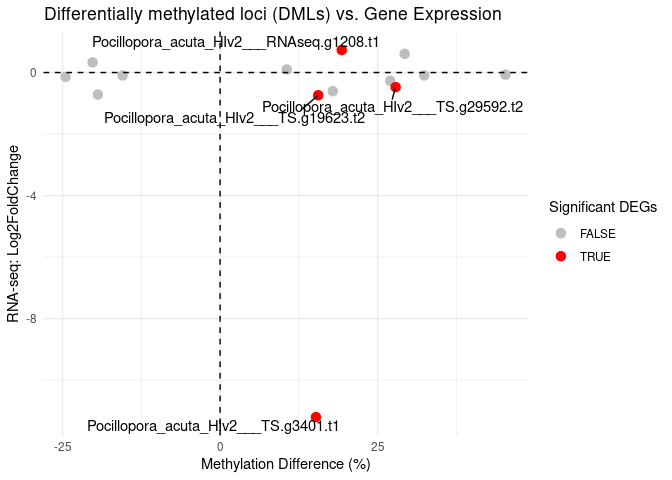
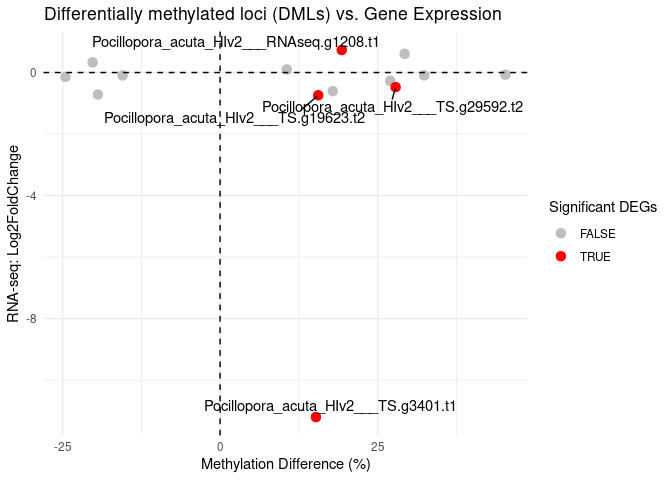
update DML annotation

Changed region(s): [[0.125, 0.8125, 0.5312, 0.9062], [0.5625, 0.8125, 0.6875, 0.875]]

diff --git a/code/09-MethylKit.md b/code/09-MethylKit.md
@@ -508,7 +508,7 @@ getCorrelation(meth_filter_destrand,plot=TRUE)
 ### 0.3.1 batch effects
 
 ``` r
-as=assocComp(mBase=meth_filter_destrand,select(meta,c("PCR_ReAmp_Cycles", "Fragment")))
+as=assocComp(mBase=meth_filter_destrand,dplyr::select(meta,c("PCR_ReAmp_Cycles", "Fragment")))
 as
 ```
 
@@ -809,6 +809,13 @@ head(DML_transcript_annot)
     ## 5     Pocillopora_acuta_HIv2___TS.g27914.t3
     ## 6 Pocillopora_acuta_HIv2___RNAseq.g17735.t1
 
+``` r
+#how many genes do these consist of?
+length(unique(DML_transcript_annot$gene_id))
+```
+
+    ## [1] 21
+
 ## 0.5 Are any DMGs DMLs?
 
 ``` r
@@ -884,6 +891,12 @@ MLs_in_genes <- regionCounts(meth_filter_destrand, regions=transcripts)
 
     ## Warning in .merge_two_Seqinfo_objects(x, y): Each of the 2 combined objects has sequence levels not in the other:
     ##   - in 'x': Pocillopora_acuta_HIv2___Sc0000053, Pocillopora_acuta_HIv2___Sc0000056, Pocillopora_acuta_HIv2___Sc0000058, Pocillopora_acuta_HIv2___Sc0000059, Pocillopora_acuta_HIv2___Sc0000060, Pocillopora_acuta_HIv2___Sc0000062, Pocillopora_acuta_HIv2___Sc0000063, Pocillopora_acuta_HIv2___Sc0000064, Pocillopora_acuta_HIv2___Sc0000066, Pocillopora_acuta_HIv2___Sc0000068, Pocillopora_acuta_HIv2___Sc0000070, Pocillopora_acuta_HIv2___Sc0000073, Pocillopora_acuta_HIv2___Sc0000075, Pocillopora_acuta_HIv2___Sc0000076, Pocillopora_acuta_HIv2___Sc0000077, Pocillopora_acuta_HIv2___Sc0000078, Pocillopora_acuta_HIv2___Sc0000080, Pocillopora_acuta_HIv2___xfSc0000051, Pocillopora_acuta_HIv2___xfSc0000055, Pocillopora_acuta_HIv2___xfSc0000057, Pocillopora_acuta_HIv2___xfSc0000058, Pocillopora_acuta_HIv2___xfSc0000062, Pocillopora_acuta_HIv2___xfSc0000064, Pocillopora_acuta_HIv2___xfSc0000065, Pocillopora_acuta_HIv2___xfSc0000066, Pocillopora_acuta_HIv2___xfSc0000070, Pocillopora_acuta_HIv2___xfSc0000071, Pocillopora_acuta_HIv2___xfSc0000072, Pocillopora_acuta_HIv2___xfSc0000073, Pocillopora_acuta_HIv2___xfSc0000074, Pocillopora_acuta_HIv2___xfSc0000075, Pocillopora_acuta_HIv2___xfSc0000077, Pocillopora_acuta_HIv2___xfSc0000078, Pocillopora_acuta_HIv2___xfSc0000080, Pocillopora_acuta_HIv2___xfSc0000081, Pocillopora_acuta_HIv2___xfSc0000084, Pocillopora_acuta_HIv2___xfSc0000086, Pocillopora_acuta_HIv2___xfSc0000087, Pocillopora_acuta_HIv2___xfSc0000089, Pocillopora_acuta_HIv2___xfSc0000090, Pocillopora_acuta_HIv2___xfSc0000091, Pocillopora_acuta_HIv2___xfSc0000094, Pocillopora_acuta_HIv2___xfSc0000095, Pocillopora_acuta_HIv2___xfSc0000096, Pocillopora_acuta_HIv2___xfSc0000097, Pocillopora_acuta_HIv2___xfSc0000098, Pocillopora_acuta_HIv2___xfSc0000099, Pocillopora_acuta_HIv2___xfSc0000100, Pocillopora_acuta_HIv2___xfSc0000101, Pocillopora_acuta_HIv2___xfSc0000102, Pocillopora_acuta_HIv2___xfSc0000103, Pocillopora_acuta_HIv2___xfSc0000104, Pocillopora_acuta_HIv2___xfSc0000105, Pocillopora_acuta_HIv2___xfSc0000108, Pocillopora_acuta_HIv2___xfSc0000109, Pocillopora_acuta_HIv2___xfSc0000110, Pocillopora_acuta_HIv2___xfSc0000114, Pocillopora_acuta_HIv2___xfSc0000115, Pocillopora_acuta_HIv2___xfSc0000116, Pocillopora_acuta_HIv2___xfSc0000119, Pocillopora_acuta_HIv2___xfSc0000121, Pocillopora_acuta_HIv2___xfSc0000122, Pocillopora_acuta_HIv2___xfSc0000125, Pocillopora_acuta_HIv2___xfSc0000126, Pocillopora_acuta_HIv2___xfSc0000127, Pocillopora_acuta_HIv2___xfSc0000128, Pocillopora_acuta_HIv2___xfSc0000129, Pocillopora_acuta_HIv2___xfSc0000130, Pocillopora_acuta_HIv2___xfSc0000131, Pocillopora_acuta_HIv2___xfSc0000132, Pocillopora_acuta_HIv2___xfSc0000133, Pocillopora_acuta_HIv2___xfSc0000135, Pocillopora_acuta_HIv2___xfSc0000136, Pocillopora_acuta_HIv2___xfSc0000137, Pocillopora_acuta_HIv2___xfSc0000138, Pocillopora_acuta_HIv2___xfSc0000139, Pocillopora_acuta_HIv2___xfSc0000140, Pocillopora_acuta_HIv2___xfSc0000141, Pocillopora_acuta_HIv2___xfSc0000142, Pocillopora_acuta_HIv2___xfSc0000143, Pocillopora_acuta_HIv2___xfSc0000144, Pocillopora_acuta_HIv2___xfSc0000145, Pocillopora_acuta_HIv2___xfSc0000147, Pocillopora_acuta_HIv2___xfSc0000148, Pocillopora_acuta_HIv2___xfSc0000150, Pocillopora_acuta_HIv2___xfSc0000151, Pocillopora_acuta_HIv2___xfSc0000152, Pocillopora_acuta_HIv2___xfSc0000154, Pocillopora_acuta_HIv2___xfSc0000155, Pocillopora_acuta_HIv2___xfSc0000157, Pocillopora_acuta_HIv2___xfSc0000158, Pocillopora_acuta_HIv2___xfSc0000159, Pocillopora_acuta_HIv2___xfSc0000160, Pocillopora_acuta_HIv2___xfSc0000161, Pocillopora_acuta_HIv2___xfSc0000162, Pocillopora_acuta_HIv2___xfSc0000163, Pocillopora_acuta_HIv2___xfSc0000164, Pocillopora_acuta_HIv2___xfSc0000165, Pocillopora_acuta_HIv2___xfSc0000166, Pocillopora_acuta_HIv2___xfSc0000167, Pocillopora_acuta_HIv2___xfSc0000168, Pocillopora_acuta_HIv2___xfSc0000171, Pocillopora_acuta_HIv2___xfSc0000173, Pocillopora_acuta_HIv2___xfSc0000174, Pocillopora_acuta_HIv2___xfSc0000177, Pocillopora_acuta_HIv2___xfSc0000178, Pocillopora_acuta_HIv2___xfSc0000179, Pocillopora_acuta_HIv2___xfSc0000180, Pocillopora_acuta_HIv2___xfSc0000181, Pocillopora_acuta_HIv2___xfSc0000182, Pocillopora_acuta_HIv2___xfSc0000183, Pocillopora_acuta_HIv2___xfSc0000184, Pocillopora_acuta_HIv2___xfSc0000185, Pocillopora_acuta_HIv2___xfSc0000186, Pocillopora_acuta_HIv2___xfSc0000187, Pocillopora_acuta_HIv2___xfSc0000188, Pocillopora_acuta_HIv2___xfSc0000189, Pocillopora_acuta_HIv2___xfSc0000190, Pocillopora_acuta_HIv2___xfSc0000191, Pocillopora_acuta_HIv2___xfSc0000192, Pocillopora_acuta_HIv2___xfSc0000193, Pocillopora_acuta_HIv2___xfSc0000196, Pocillopora_acuta_HIv2___xfSc0000197, Pocillopora_acuta_HIv2___xfSc0000200, Pocillopora_acuta_HIv2___xfSc0000202, Pocillopora_acuta_HIv2___xfSc0000203, Pocillopora_acuta_HIv2___xfSc0000204, Pocillopora_acuta_HIv2___xfSc0000205, Pocillopora_acuta_HIv2___xfSc0000206, Pocillopora_acuta_HIv2___xfSc0000207, Pocillopora_acuta_HIv2___xfSc0000208, Pocillopora_acuta_HIv2___xfSc0000209, Pocillopora_acuta_HIv2___xfSc0000210, Pocillopora_acuta_HIv2___xfSc0000212, Pocillopora_acuta_HIv2___xfSc0000213, Pocillopora_acuta_HIv2___xfSc0000214, Pocillopora_acuta_HIv2___xfSc0000215, Pocillopora_acuta_HIv2___xfSc0000216, Pocillopora_acuta_HIv2___xfSc0000217, Pocillopora_acuta_HIv2___xfSc0000218, Pocillopora_acuta_HIv2___xfSc0000220, Pocillopora_acuta_HIv2___xfSc0000221, Pocillopora_acuta_HIv2___xfSc0000222, Pocillopora_acuta_HIv2___xfSc0000223, Pocillopora_acuta_HIv2___xfSc0000224, Pocillopora_acuta_HIv2___xfSc0000226, Pocillopora_acuta_HIv2___xfSc0000227, Pocillopora_acuta_HIv2___xfSc0000228, Pocillopora_acuta_HIv2___xfSc0000230, Pocillopora_acuta_HIv2___xfSc0000231, Pocillopora_acuta_HIv2___xfSc0000232, Pocillopora_acuta_HIv2___xfSc0000233, Pocillopora_acuta_HIv2___xfSc0000234, Pocillopora_acuta_HIv2___xfSc0000235, Pocillopora_acuta_HIv2___xfSc0000236, Pocillopora_acuta_HIv2___xfSc0000238, Pocillopora_acuta_HIv2___xfSc0000239, Pocillopora_acuta_HIv2___xfSc0000240, Pocillopora_acuta_HIv2___xfSc0000241, Pocillopora_acuta_HIv2___xfSc0000242, Pocillopora_acuta_HIv2___xfSc0000243, Pocillopora_acuta_HIv2___xfSc0000244, Pocillopora_acuta_HIv2___xfSc0000245, Pocillopora_acuta_HIv2___xfSc0000247, Pocillopora_acuta_HIv2___xfSc0000248, Pocillopora_acuta_HIv2___xfSc0000250, Pocillopora_acuta_HIv2___xfSc0000251, Pocillopora_acuta_HIv2___xfSc0000252, Pocillopora_acuta_HIv2___xfSc0000254, Pocillopora_acuta_HIv2___xfSc0000255, Pocillopora_acuta_HIv2___xfSc0000256, Pocillopora_acuta_HIv2___xfSc0000257, Pocillopora_acuta_HIv2___xfSc0000258, Pocillopora_acuta_HIv2___xfSc0000259, Pocillopora_acuta_HIv2___xfSc0000260, Pocillopora_acuta_HIv2___xfSc0000261, Pocillopora_acuta_HIv2___xfSc0000262, Pocillopora_acuta_HIv2___xfSc0000264, Pocillopora_acuta_HIv2___xfSc0000265, Pocillopora_acuta_HIv2___xfSc0000266, Pocillopora_acuta_HIv2___xfSc0000268, Pocillopora_acuta_HIv2___xfSc0000269, Pocillopora_acuta_HIv2___xfSc0000270, Pocillopora_acuta_HIv2___xfSc0000271, Pocillopora_acuta_HIv2___xfSc0000272, Pocillopora_acuta_HIv2___xfSc0000273, Pocillopora_acuta_HIv2___xfSc0000274, Pocillopora_acuta_HIv2___xfSc0000275, Pocillopora_acuta_HIv2___xfSc0000276, Pocillopora_acuta_HIv2___xfSc0000277, Pocillopora_acuta_HIv2___xfSc0000278, Pocillopora_acuta_HIv2___xfSc0000279, Pocillopora_acuta_HIv2___xfSc0000280, Pocillopora_acuta_HIv2___xfSc0000281, Pocillopora_acuta_HIv2___xfSc0000282, Pocillopora_acuta_HIv2___xfSc0000283, Pocillopora_acuta_HIv2___xfSc0000284, Pocillopora_acuta_HIv2___xfSc0000286, Pocillopora_acuta_HIv2___xfSc0000288, Pocillopora_acuta_HIv2___xfSc0000289, Pocillopora_acuta_HIv2___xfSc0000291, Pocillopora_acuta_HIv2___xfSc0000293, Pocillopora_acuta_HIv2___xfSc0000295, Pocillopora_acuta_HIv2___xfSc0000296, Pocillopora_acuta_HIv2___xfSc0000301, Pocillopora_acuta_HIv2___xfSc0000302, Pocillopora_acuta_HIv2___xfSc0000303, Pocillopora_acuta_HIv2___xfSc0000305, Pocillopora_acuta_HIv2___xfSc0000306, Pocillopora_acuta_HIv2___xfSc0000307, Pocillopora_acuta_HIv2___xfSc0000310, Pocillopora_acuta_HIv2___xfSc0000311, Pocillopora_acuta_HIv2___xfSc0000313, Pocillopora_acuta_HIv2___xfSc0000315, Pocillopora
+
+``` r
+nrow(MLs_in_genes)
+```
+
+    ## [1] 1107
 
 ``` r
 #MLs_in_genes <- getData(MLs_in_genes)
@@ -996,7 +1009,7 @@ meta_RNA$Tissue <- factor(meta_RNA$Tissue, levels = c("OralEpi","Aboral")) #we w
 ``` r
 filtered_counts_RNA <- read.csv("../output_RNA/differential_expression/filtered_counts.csv") 
 rownames(filtered_counts_RNA) <- filtered_counts_RNA$X
-filtered_counts_RNA <- filtered_counts_RNA %>% select(-X)
+filtered_counts_RNA <- filtered_counts_RNA %>% dplyr::select(-X)
 filtered_counts_RNA$sum <- rowSums(filtered_counts_RNA)
 filtered_counts_RNA$gene_id <- rownames(filtered_counts_RNA)
 

diff --git a/code/WGBS-bioinf.md b/code/WGBS-bioinf.md
@@ -1753,27 +1753,28 @@ Two main files of DML/DMG interpretation:
 
 Takeaways:
 
-- There are 59 DMLs, 42 of which occur in gene bodies (DMGs)
+- After filtering, there are 12,252 CpGs in the dataset with 5X coverage, and those of which that occur in gene bodies cover 1107 unique genes out of 33,730 in the genome
+- There are 59 DMLs, 42 of which occur in gene bodies (covering 21 unique genes, which we can consider DMGs)
 - 4 DMGs are also DEGs
     - Pocillopora_acuta_HIv2___TS.g29592.t2
     - Pocillopora_acuta_HIv2___TS.g3401.t1
     - Pocillopora_acuta_HIv2___RNAseq.g1208.t1
     - Pocillopora_acuta_HIv2___TS.g19623.t2
 
-| Query                                     | BaseMean  | Log2FoldChange | lfcSE  | PValue       | Padj        | QValue     | MethDiff  |
-|-------------------------------------------|-----------|---------------|--------|-------------|------------|------------|-----------|
-| Pocillopora_acuta_HIv2___TS.g3401.t1      | 92.69481  | -11.2018977   | 3.6354 | 6.46e-08    | 1.47e-06   | 0.02159195 | 15.20642  |
-| Pocillopora_acuta_HIv2___TS.g19623.t2     | 269.40223 | -0.7395856    | 1.4279 | 1.10e-06    | 1.71e-05   | 0.04578924 | 15.57377  |
-| Pocillopora_acuta_HIv2___RNAseq.g1208.t1  | 544.93022 | 0.7332125     | 1.4577 | 4.65e-05    | 4.29e-04   | 0.04856409 | 19.30342  |
-| Pocillopora_acuta_HIv2___TS.g29592.t2     | 198.58417 | -0.4754287    | 1.1099 | 1.41e-03    | 7.88e-03   | 0.01725888 | 27.85388  |
+| Query                                     | BaseMean  | Log2FoldChange | lfcSE  | PValue       | Padj        | QValue     | MethDiff  | SwissProt Annotation |
+|-------------------------------------------|-----------|---------------|--------|-------------|------------|------------|-----------|------|
+| Pocillopora_acuta_HIv2___TS.g3401.t1      | 92.69481  | -11.2018977   | 3.6354 | 6.46e-08    | 1.47e-06   | 0.02159195 | 15.20642  | Asparagine synthetase domain-containing protein 1 |
+| Pocillopora_acuta_HIv2___TS.g19623.t2     | 269.40223 | -0.7395856    | 1.4279 | 1.10e-06    | 1.71e-05   | 0.04578924 | 15.57377  | NACHT domain- and WD repeat-containing protein 1	(negative regulation of NF-kappaB transcription factor activity [GO:0032088]; positive regulation of gene expression [GO:0010628]) |
+| Pocillopora_acuta_HIv2___RNAseq.g1208.t1  | 544.93022 | 0.7332125     | 1.4577 | 4.65e-05    | 4.29e-04   | 0.04856409 | 19.30342  | Protein white (ATP binding, ATP hydrolysis activity, pigment binding) |
+| Pocillopora_acuta_HIv2___TS.g29592.t2     | 198.58417 | -0.4754287    | 1.1099 | 1.41e-03    | 7.88e-03   | 0.01725888 | 27.85388  | N-fatty-acyl-amino acid synthase/hydrolase PM20D1.2 |
 
 ![alt text](09-MethylKit_files/figure-gfm/unnamed-chunk-25-1.png) ![alt text](09-MethylKit_files/figure-gfm/unnamed-chunk-22-1.png)
 
 2. [Same as above, but reads filtered for > 90% conversion efficiency](https://github.com/zdellaert/LaserCoral/blob/main/code/09-MethylKit-ConvFilt.md)
 
 Takeaways:
+- After filtering, there are 2,987 CpGs in the dataset with 5X coverage, and those of which that occur in gene bodies cover 166 unique genes out of 33,730 in the genome)
 - There are 3 DMLs, 0 of which occur in gene bodies (DMGs)
 - No DMGs exist in this dataset post-filtering, so none of these overlap with DEGs
-- Only 332 genes remain in the dataset with methylation data post-filtering
 
 ![alt text](09-MethylKit-ConvFilt_files/figure-gfm/unnamed-chunk-25-1.png) ![alt text](09-MethylKit-ConvFilt_files/figure-gfm/unnamed-chunk-22-1.png)
